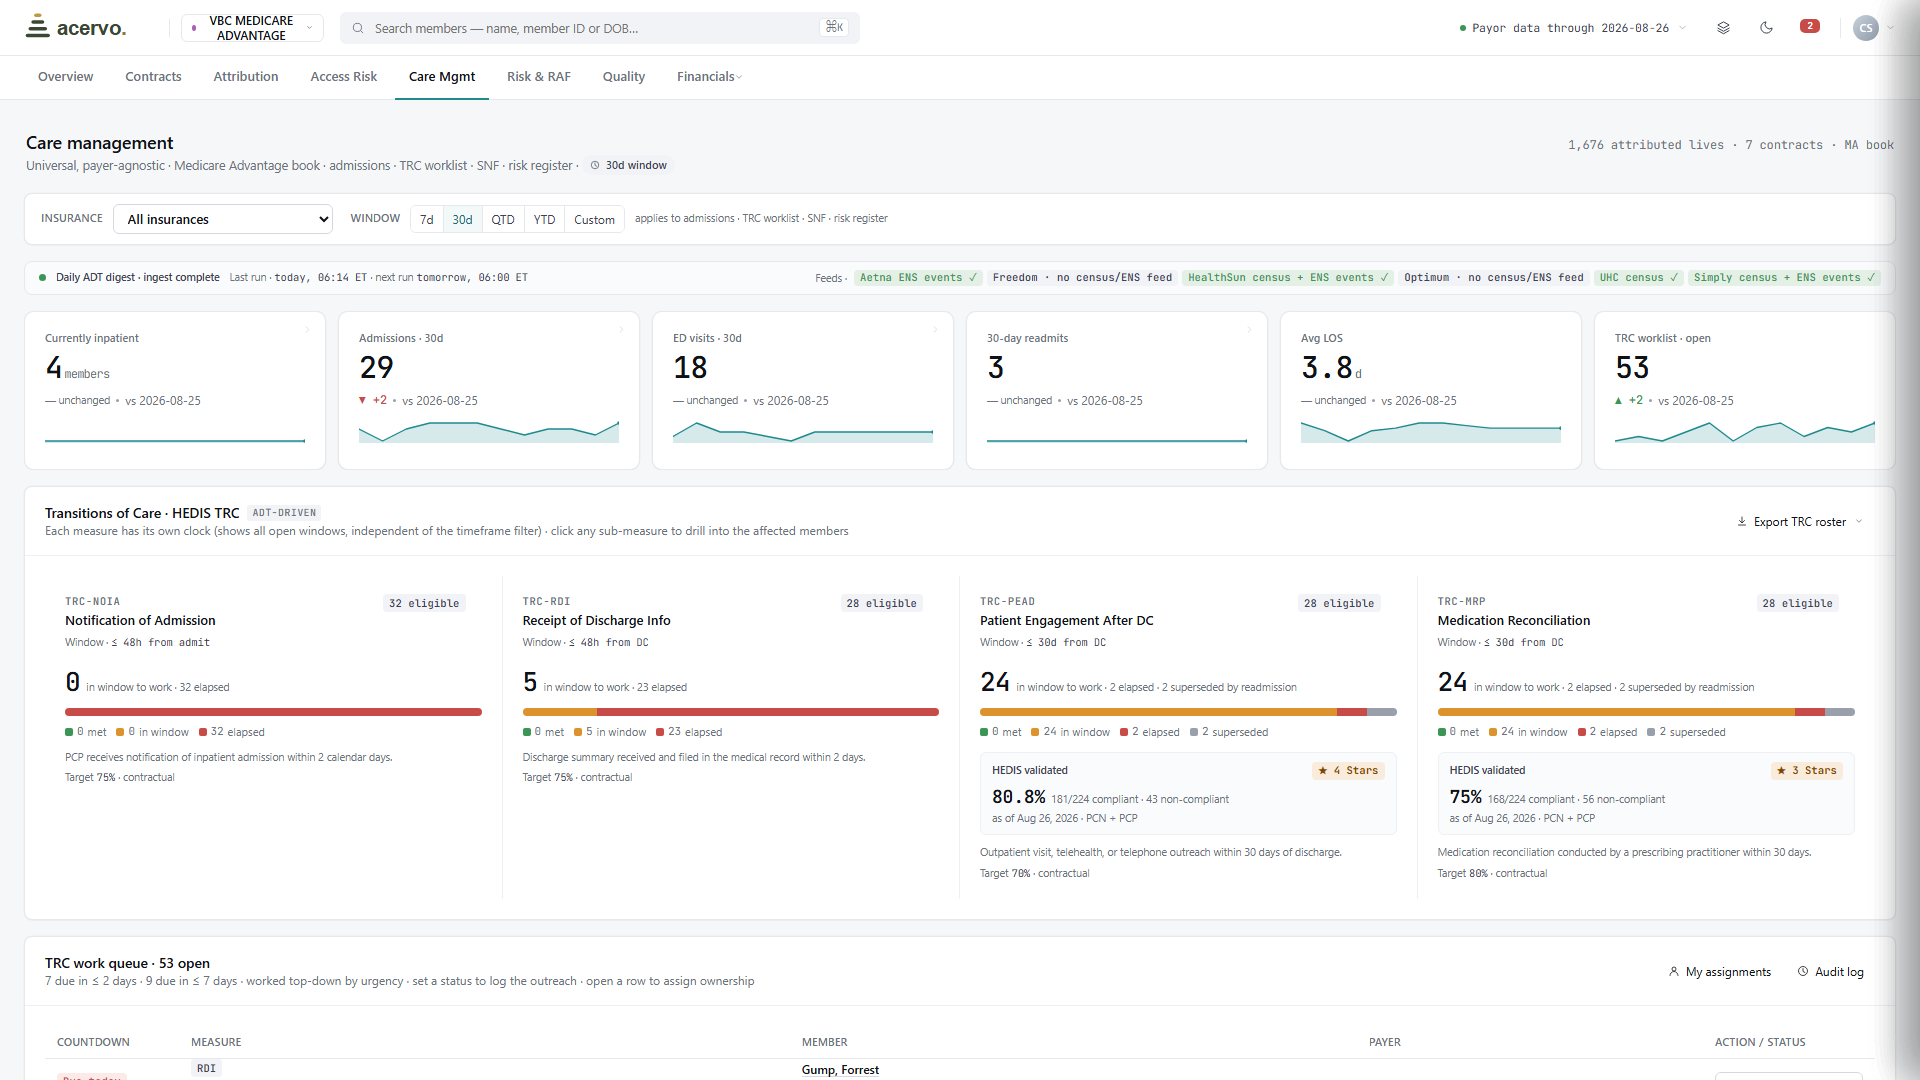
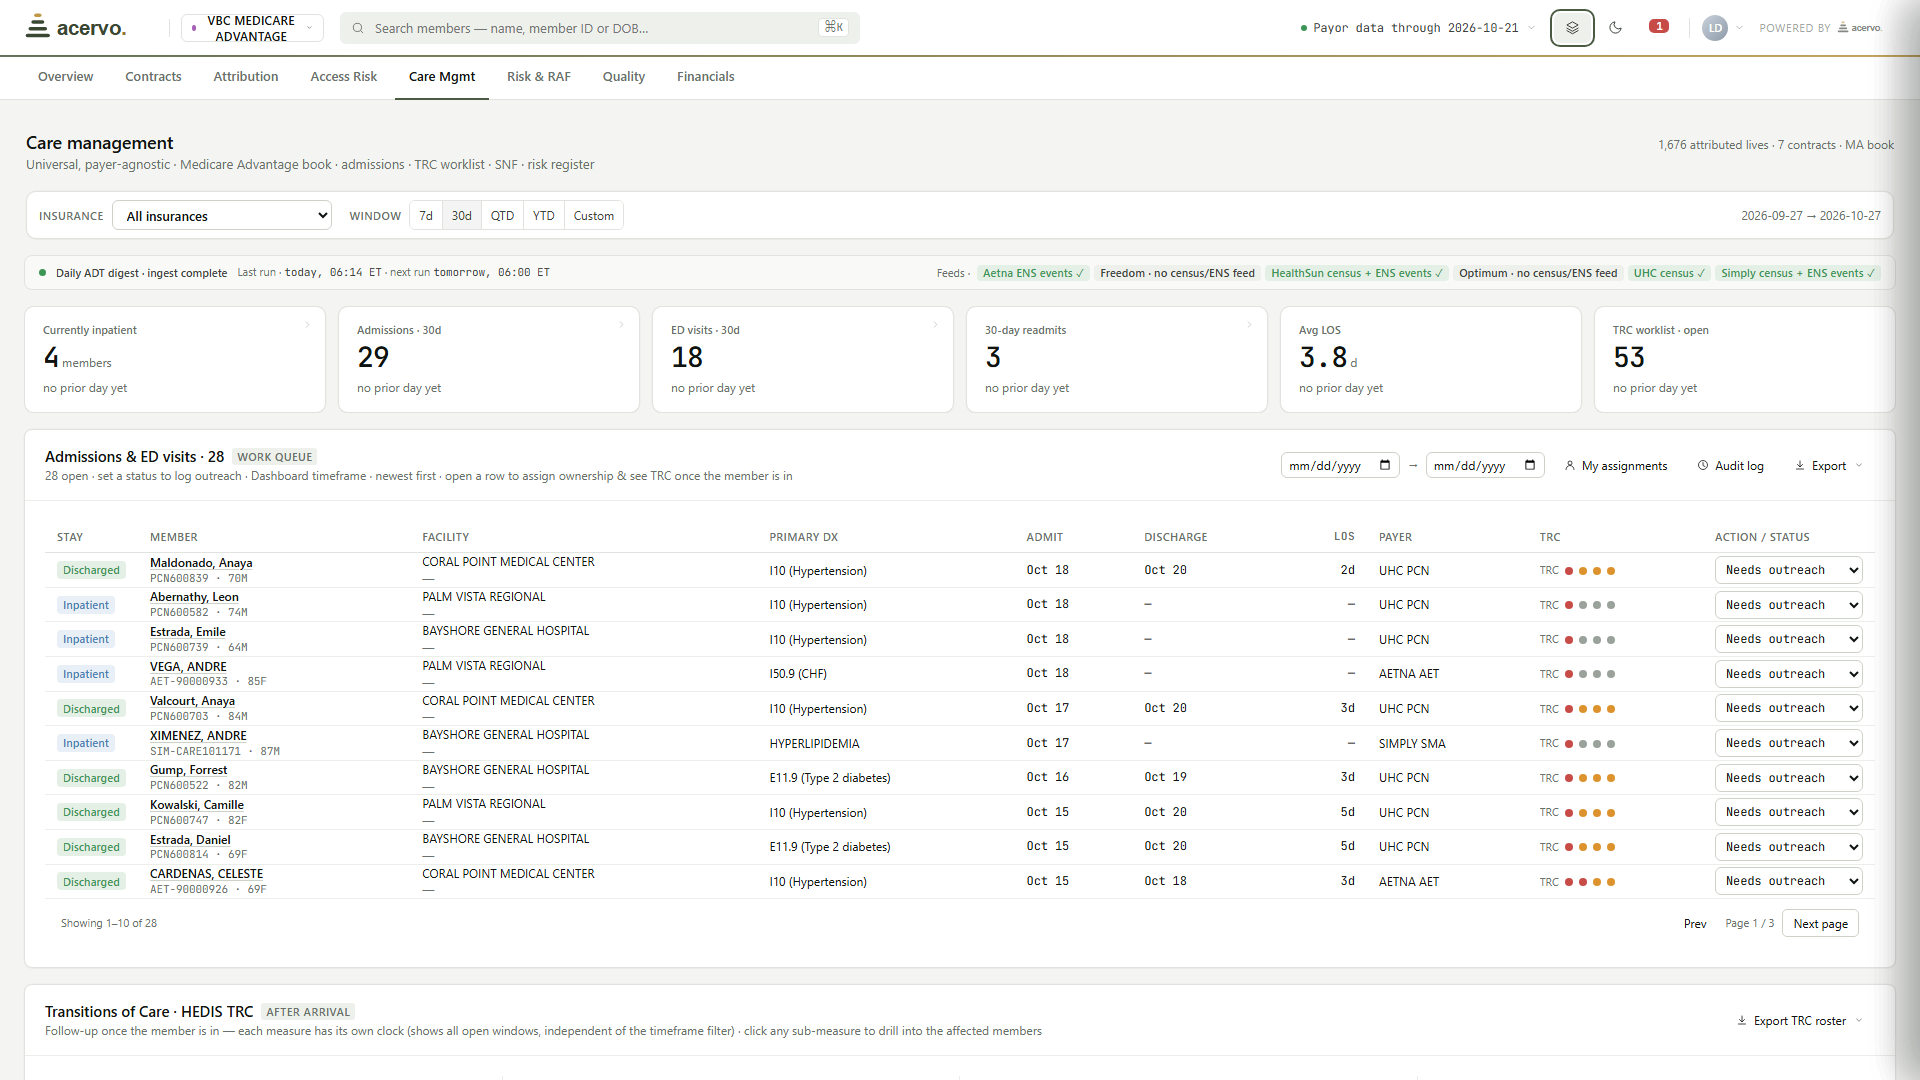
Refresh screenshots from the demo tenant (October 2026)
Eight captures at 1920x1080 from the synthetic Palmetto Care Partners tenant via the hash router: sign-in, all-payers fund statement, member 360 (top and claims/pharmacy/quality/care), the risk-adjustment audit card, care management, the Quality Workspace, and the data-feeds ledger. Replaces the August set; the Risk & RAF recapture shot is superseded by the audit card.

diff --git a/README.md b/README.md
@@ -6,11 +6,12 @@ A production healthcare analytics **and AI-agent** platform I built for **Doctor
 
 | | |
 |---|---|
-| ![Sign in](docs/media/login-final.png) | ![Financials — service fund P&L](docs/media/fin-full.png) |
-| ![Member 360 — claims, pharmacy, quality](docs/media/member-claims.png) | ![Risk & RAF — recapture worklist](docs/media/risk-raf.png) |
-| ![Data feeds — live ingestion ledger](docs/media/feeds-loaded.png) | ![Care management — TRC clocks & census](docs/media/acuity.png) |
+| ![Sign in](docs/media/login-final.png) | ![Financials — all-payers fund statement, statement of record](docs/media/fin-full.png) |
+| ![Member 360 — RAF, projection, fund P&L, payer-reported suspects](docs/media/member-360.png) | ![Member 360 — claims, pharmacy, quality gaps, care management, C-SNP](docs/media/member-claims.png) |
+| ![Risk & RAF — the risk-adjustment audit: pools, MAO-004 latency per payer, what to do next](docs/media/risk-audit.png) | ![Care management — ADT digest, admissions work queue, TRC clocks](docs/media/acuity.png) |
+| ![Quality Workspace — patients with open care gaps, buckets, owners, next visit](docs/media/quality-workspace.png) | ![Data feeds — live ingestion ledger](docs/media/feeds-loaded.png) |
 
-*Screenshots show the productized demo tenant ("Palmetto Care Partners" — a fictional organization) on entirely synthetic data.*
+*Screenshots (captured October 2026) show the productized demo tenant ("Palmetto Care Partners" — a fictional organization) on entirely synthetic data.*
 
 ## What it does for the organization
 
